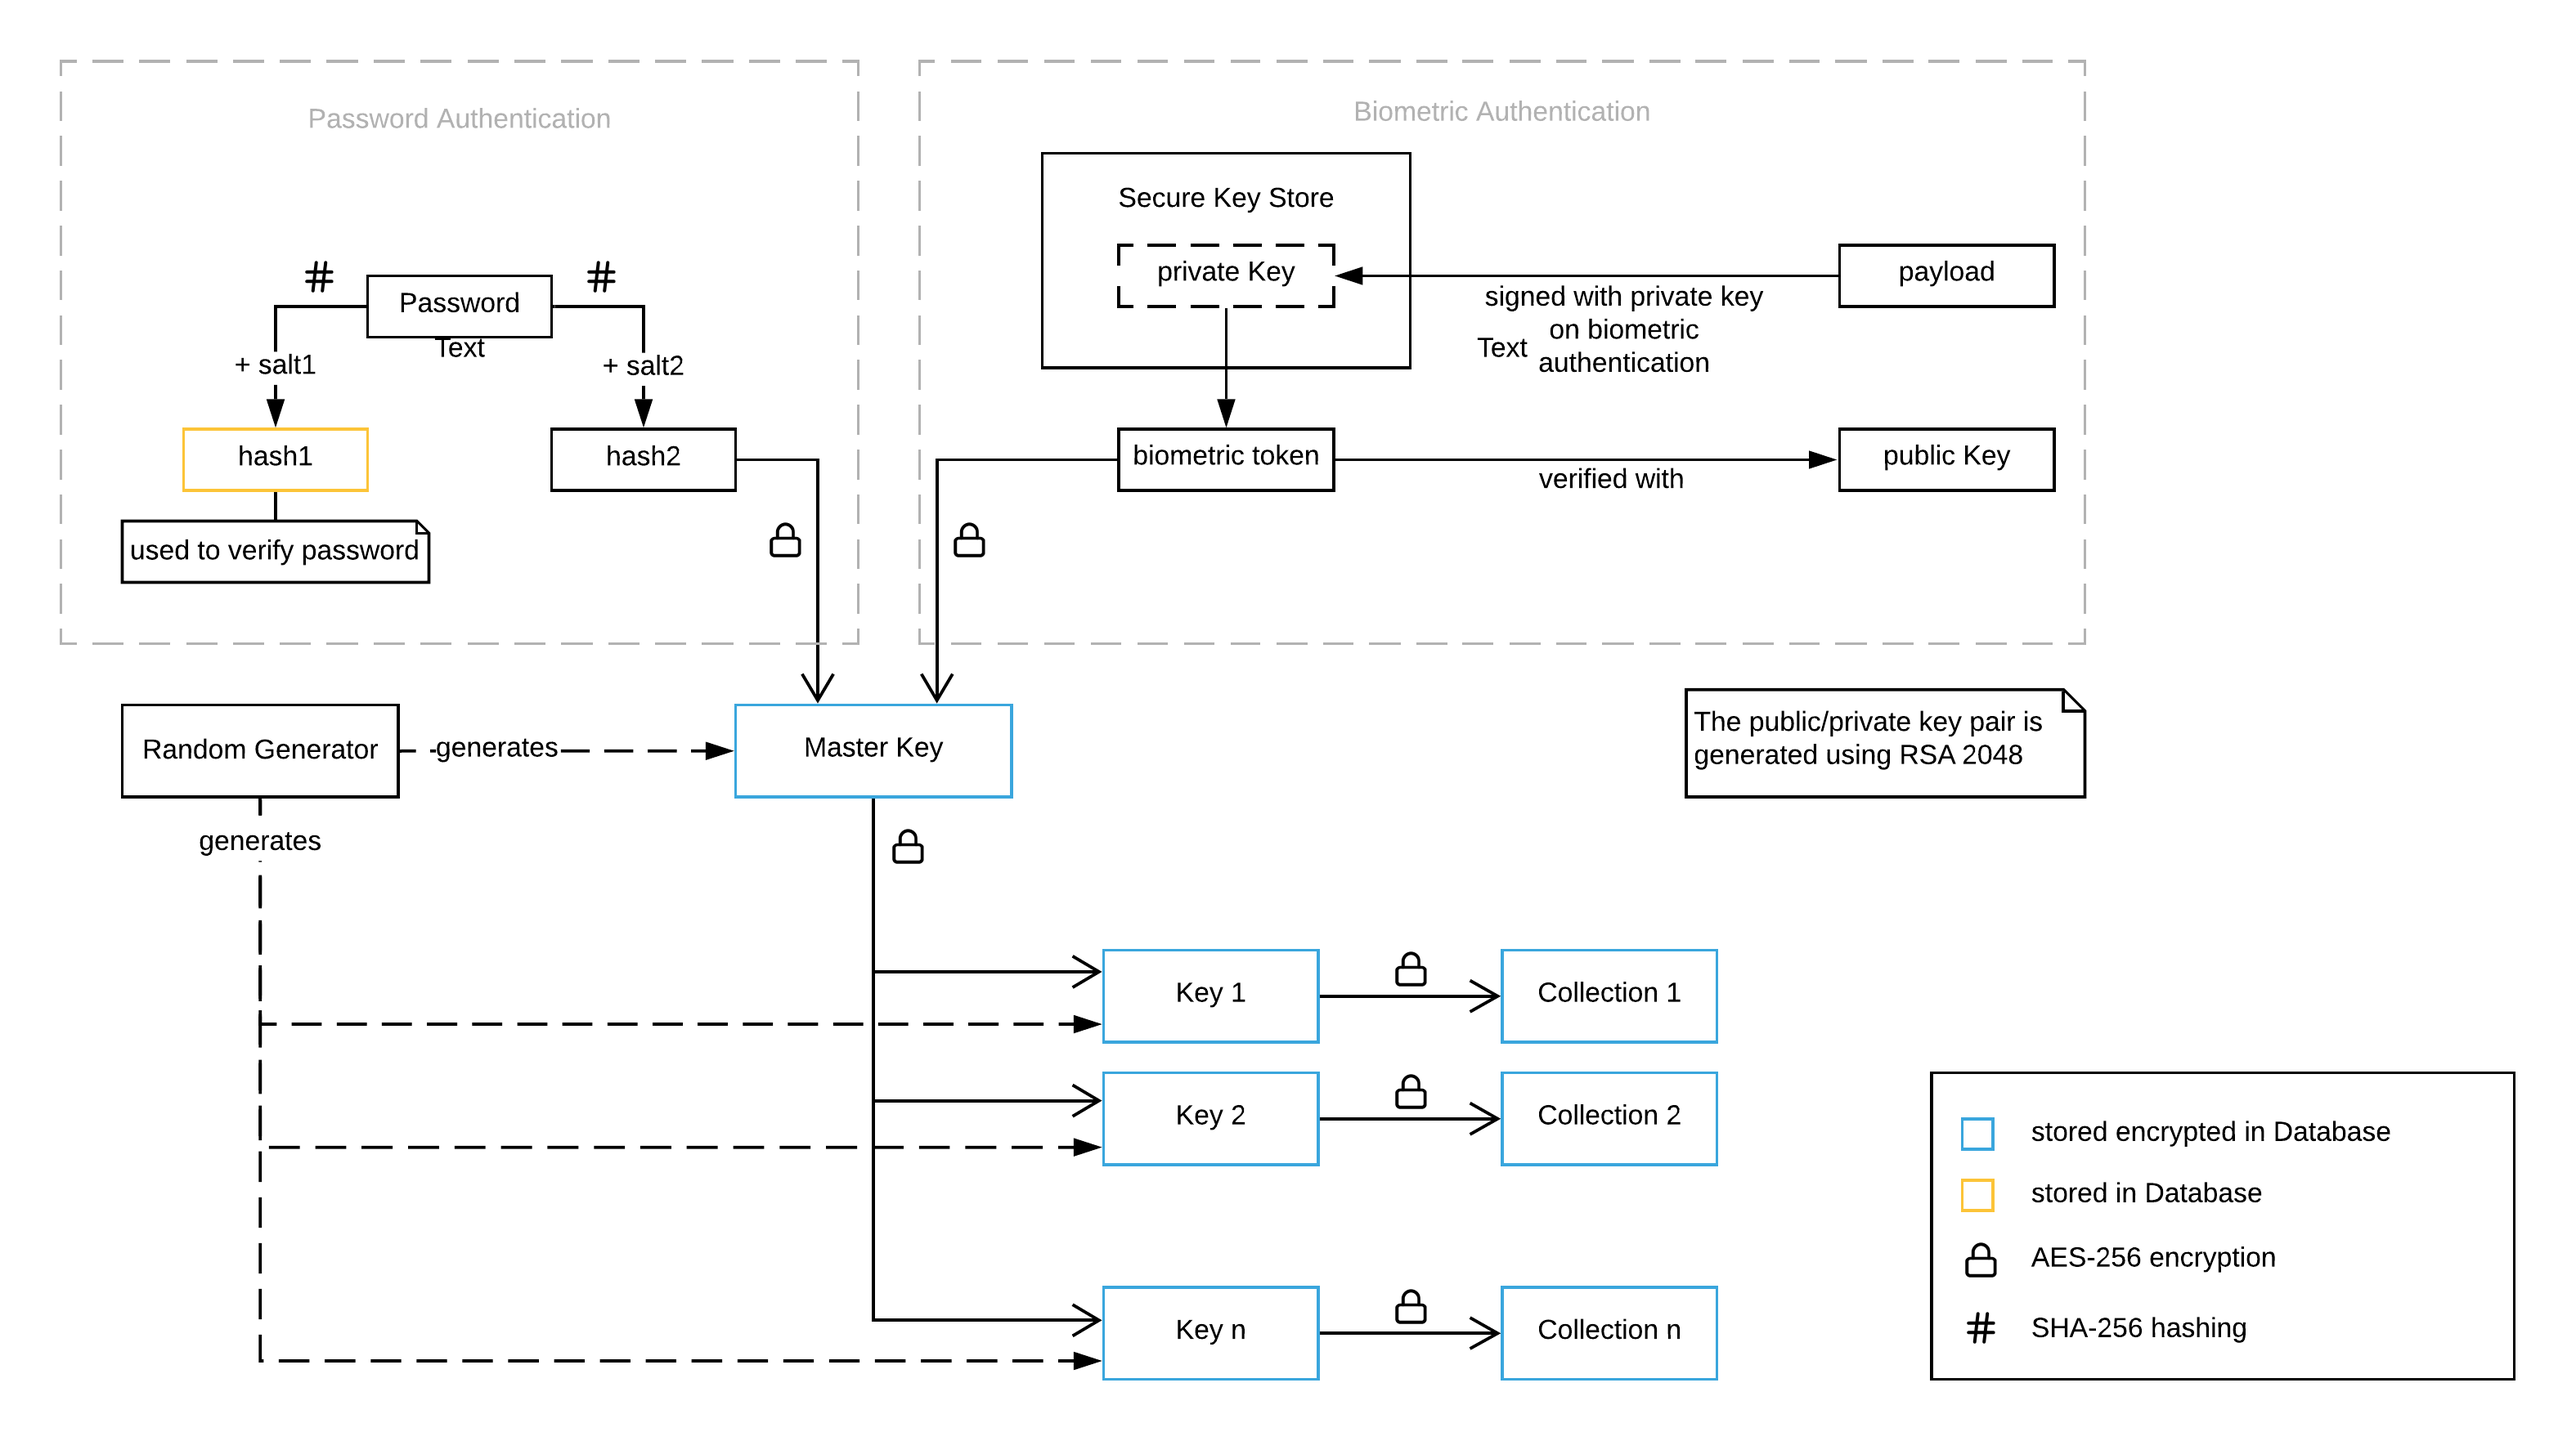
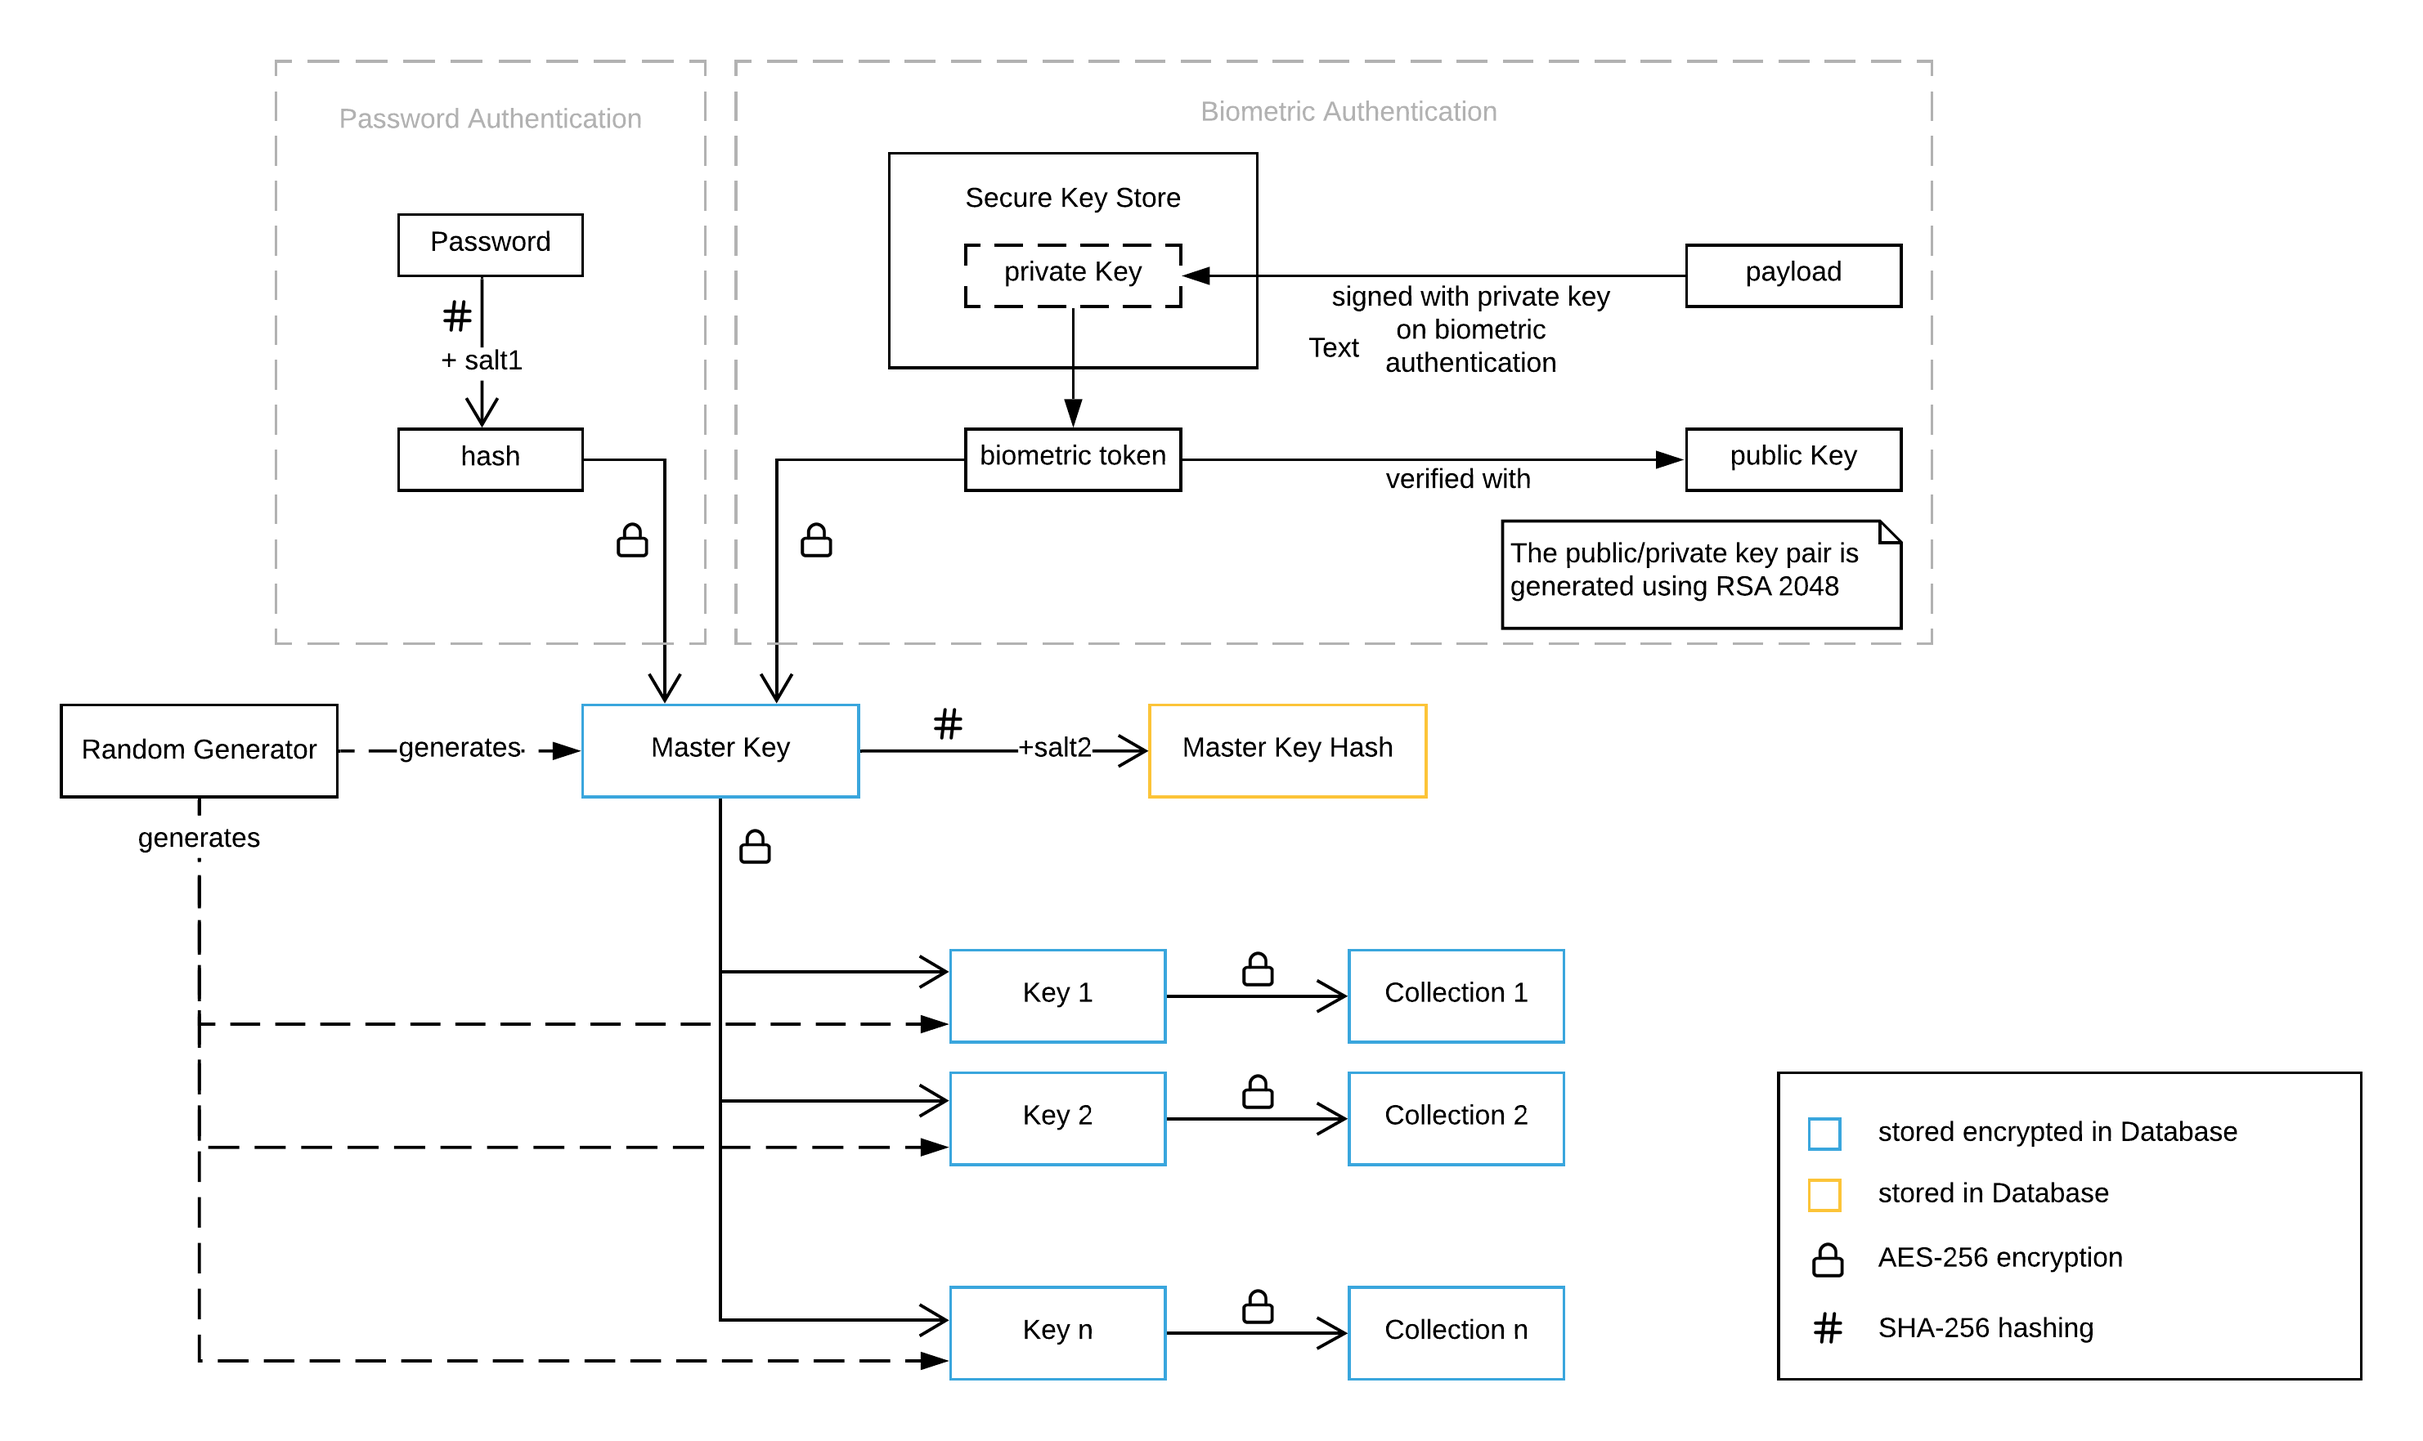
updated README

diff --git a/README.md b/README.md
@@ -8,8 +8,8 @@ It uses SHA-256 hashing and AES-256 Encryption to encrypt your secrets. They are
 
 ## Features
 
-- Storing and encryption of arbitrary key value pairs on the device (offline)
-- Password protection
+- Securely storing and encrypting arbitrary key value pairs on the device (offline)
+- Password protection without storing a hash that could trace back to the password using rainbow tables
 - Support for Fingerprint and FaceID authentication
 - Use of an individual key for each collection
 - Automatic logout after x minutes
